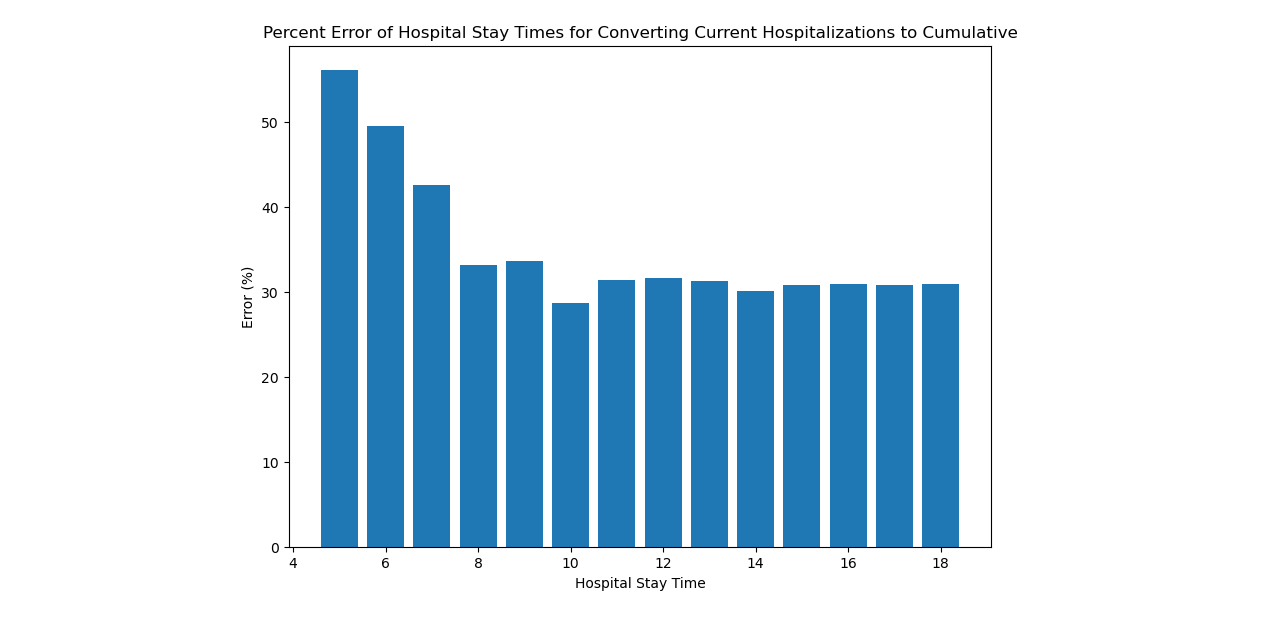
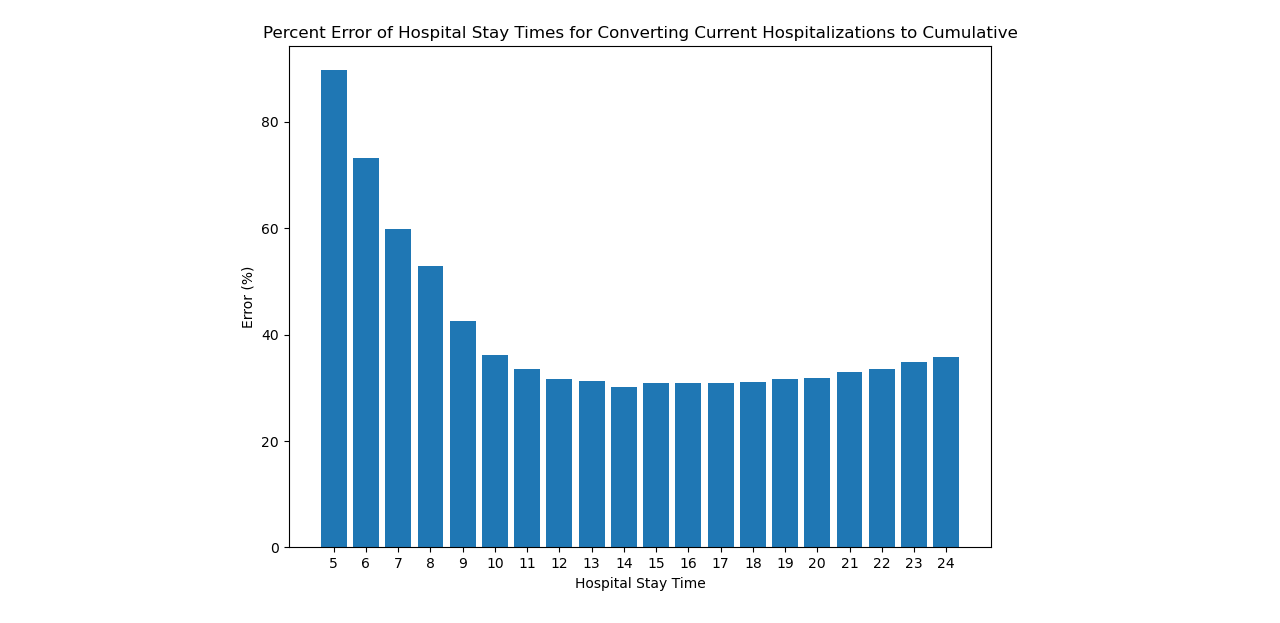
Updated Sensitivity Analysis

diff --git a/Scripts/ConvertCurrentToCumulative.py b/Scripts/ConvertCurrentToCumulative.py
@@ -119,130 +119,130 @@ def findAverageStayTwo(current, cumulative, shift = 0):
 #     percentAverage += abs((guesses[index] - cumNumbers[index]) / cumNumbers[index])
 # print(percentAverage/finalIndex)
 
-states_dict = {
-    'Alabama': 'AL',
-    'Alaska': 'AK',
-    'American Samoa': 'AS',
-    'Arkansas': 'AR',
-    'Arizona': 'AZ',
-    'California': 'CA',
-    'Colorado': 'CO',
-    'Connecticut': 'CT',
-    'Delaware': 'DE',
-    'District of Columbia': 'DC',
-    'Florida': 'FL',
-    'Georgia': 'GA',
-    'Guam': 'GU',
-    'Hawaii': 'HI',
-    'Idaho': 'ID',
-    'Illinois': 'IL',
-    'Indiana': 'IN',
-    'Iowa': 'IA',
-    'Kansas': 'KS',
-    'Kentucky': 'KY',
-    'Louisiana': 'LA',
-    'Maine': 'ME',
-    'Maryland': 'MD',
-    'Massachusetts': 'MA',
-    'Michigan': 'MI',
-    'Minnesota': 'MN',
-    'Mississippi': 'MS',
-    'Missouri': 'MO',
-    'Montana': 'MT',
-    'Nebraska': 'NE',
-    'Nevada': 'NV',
-    'New Hampshire': 'NH',
-    'New Jersey': 'NJ',
-    'New Mexico': 'NM',
-    'New York': 'NY',
-    'North Carolina': 'NC',
-    'North Dakota': 'ND',
-    'Northern Mariana Islands':'MP',
-    'Ohio': 'OH',
-    'Oklahoma': 'OK',
-    'Oregon': 'OR',
-    'Pennsylvania': 'PA',
-    'Puerto Rico': 'PR',
-    'Rhode Island': 'RI',
-    'South Carolina': 'SC',
-    'South Dakota': 'SD',
-    'Tennessee': 'TN',
-    'Texas': 'TX',
-    'Utah': 'UT',
-    'Vermont': 'VT',
-    'Virgin Islands': 'VI',
-    'Virginia': 'VA',
-    'Washington': 'WA',
-    'West Virginia': 'WV',
-    'Wisconsin': 'WI',
-    'Wyoming': 'WY'
-}
+# states_dict = {
+#     'Alabama': 'AL',
+#     'Alaska': 'AK',
+#     'American Samoa': 'AS',
+#     'Arkansas': 'AR',
+#     'Arizona': 'AZ',
+#     'California': 'CA',
+#     'Colorado': 'CO',
+#     'Connecticut': 'CT',
+#     'Delaware': 'DE',
+#     'District of Columbia': 'DC',
+#     'Florida': 'FL',
+#     'Georgia': 'GA',
+#     'Guam': 'GU',
+#     'Hawaii': 'HI',
+#     'Idaho': 'ID',
+#     'Illinois': 'IL',
+#     'Indiana': 'IN',
+#     'Iowa': 'IA',
+#     'Kansas': 'KS',
+#     'Kentucky': 'KY',
+#     'Louisiana': 'LA',
+#     'Maine': 'ME',
+#     'Maryland': 'MD',
+#     'Massachusetts': 'MA',
+#     'Michigan': 'MI',
+#     'Minnesota': 'MN',
+#     'Mississippi': 'MS',
+#     'Missouri': 'MO',
+#     'Montana': 'MT',
+#     'Nebraska': 'NE',
+#     'Nevada': 'NV',
+#     'New Hampshire': 'NH',
+#     'New Jersey': 'NJ',
+#     'New Mexico': 'NM',
+#     'New York': 'NY',
+#     'North Carolina': 'NC',
+#     'North Dakota': 'ND',
+#     'Northern Mariana Islands':'MP',
+#     'Ohio': 'OH',
+#     'Oklahoma': 'OK',
+#     'Oregon': 'OR',
+#     'Pennsylvania': 'PA',
+#     'Puerto Rico': 'PR',
+#     'Rhode Island': 'RI',
+#     'South Carolina': 'SC',
+#     'South Dakota': 'SD',
+#     'Tennessee': 'TN',
+#     'Texas': 'TX',
+#     'Utah': 'UT',
+#     'Vermont': 'VT',
+#     'Virgin Islands': 'VI',
+#     'Virginia': 'VA',
+#     'Washington': 'WA',
+#     'West Virginia': 'WV',
+#     'Wisconsin': 'WI',
+#     'Wyoming': 'WY'
+# }
 
-average_errors = []
-error_info = dict()
-for window in range(5, 25):
-    averageError = 0
-    states = 0
-    rSquared = 0
-    for state in states_dict:
+# average_errors = []
+# error_info = dict()
+# for window in range(5, 25):
+#     averageError = 0
+#     states = 0
+#     rSquared = 0
+#     for state in states_dict:
 
-        file = open("C:/Users/Ron/StanfordCoronavirusResearch/RawData/{}/{}_covid_track_api_data.csv".format(state, states_dict[state].lower()))
-        data = file.read()
+#         file = open("C:/Users/Ron/StanfordCoronavirusResearch/RawData/{}/{}_covid_track_api_data.csv".format(state, states_dict[state].lower()))
+#         data = file.read()
 
-        if hasCumulativeHospitalizations(data):
-            def split(string):
-                num = string.split(",")[6]
-                if num != "":
-                    return float(num)
+#         if hasCumulativeHospitalizations(data):
+#             def split(string):
+#                 num = string.split(",")[6]
+#                 if num != "":
+#                     return float(num)
 
-            rows = data.split("\n")
-            rows.pop(0)
-            rows.remove('')
-            rows.reverse()
-            curNumbers = []
-            cumNumbers = []
-            for row in rows:
-                cur = row.split(",")[6]
-                cum = row.split(",")[7]
-                if cur != "":
-                    curNumbers.append(float(cur))
-                if cum != "":
-                    cumNumbers.append(float(cum))
+#             rows = data.split("\n")
+#             rows.pop(0)
+#             rows.remove('')
+#             rows.reverse()
+#             curNumbers = []
+#             cumNumbers = []
+#             for row in rows:
+#                 cur = row.split(",")[6]
+#                 cum = row.split(",")[7]
+#                 if cur != "":
+#                     curNumbers.append(float(cur))
+#                 if cum != "":
+#                     cumNumbers.append(float(cum))
 
-            guesses = getCumulativeHospitalizations(curNumbers, window=window)
-            guesses.reverse()
-            cumNumbers.reverse()
-            curNumbers.reverse()
+#             guesses = getCumulativeHospitalizations(curNumbers, window=window)
+#             guesses.reverse()
+#             cumNumbers.reverse()
+#             curNumbers.reverse()
 
 
-            finalIndex = len(guesses);
-            percentAverage = 0
-            for index in range(0, len(guesses)):
+#             finalIndex = len(guesses);
+#             percentAverage = 0
+#             for index in range(0, len(guesses)):
 
-                if(index >= len(cumNumbers)):
-                    finalIndex = index - 1
-                    break
-                if(cumNumbers[index] != 0):
-                    percentAverage += abs((guesses[index] - cumNumbers[index]) / cumNumbers[index])
-            if finalIndex != 0:
-                if percentAverage/finalIndex < 2:
-                    rSquared += (percentAverage/finalIndex)**2
-                    averageError += percentAverage/finalIndex
-                    states += 1
-                # print("days:{} error:{}".format(findAverageStay(curNumbers, cumNumbers), percentAverage/finalIndex))
+#                 if(index >= len(cumNumbers)):
+#                     finalIndex = index - 1
+#                     break
+#                 if(cumNumbers[index] != 0):
+#                     percentAverage += abs((guesses[index] - cumNumbers[index]) / cumNumbers[index])
+#             if finalIndex != 0:
+#                 if percentAverage/finalIndex < 2:
+#                     rSquared += (percentAverage/finalIndex)**2
+#                     averageError += percentAverage/finalIndex
+#                     states += 1
+#                 # print("days:{} error:{}".format(findAverageStay(curNumbers, cumNumbers), percentAverage/finalIndex))
     
-    error_info[window] = [averageError/states, rSquared/states]
-    average_errors.append(averageError/states * 100)
-    # print(averageError/states)
-    # print(rSquared/states)
+#     error_info[window] = [averageError/states, rSquared/states]
+#     average_errors.append(averageError/states * 100)
+#     # print(averageError/states)
+#     # print(rSquared/states)
 
-plt.bar(range(5, 25), average_errors)
-plt.xticks(range(5, 25))
-plt.xlabel("Hospital Stay Time")
-plt.ylabel("Error (%)")
-plt.title("Percent Error of Hospital Stay Times for Converting Current Hospitalizations to Cumulative")
-plt.tight_layout()
-plt.show()
+# plt.plot(range(5, 25), average_errors)
+# plt.xticks(range(5, 25))
+# plt.xlabel("Hospital Stay Time")
+# plt.ylabel("Error (%)")
+# plt.title("Percent Error of Hospital Stay Times for Converting Current Hospitalizations to Cumulative")
+# plt.tight_layout()
+# plt.show()
 
-print(error_info)
-print(average_errors)
+# print(error_info)
+# print(average_errors)
